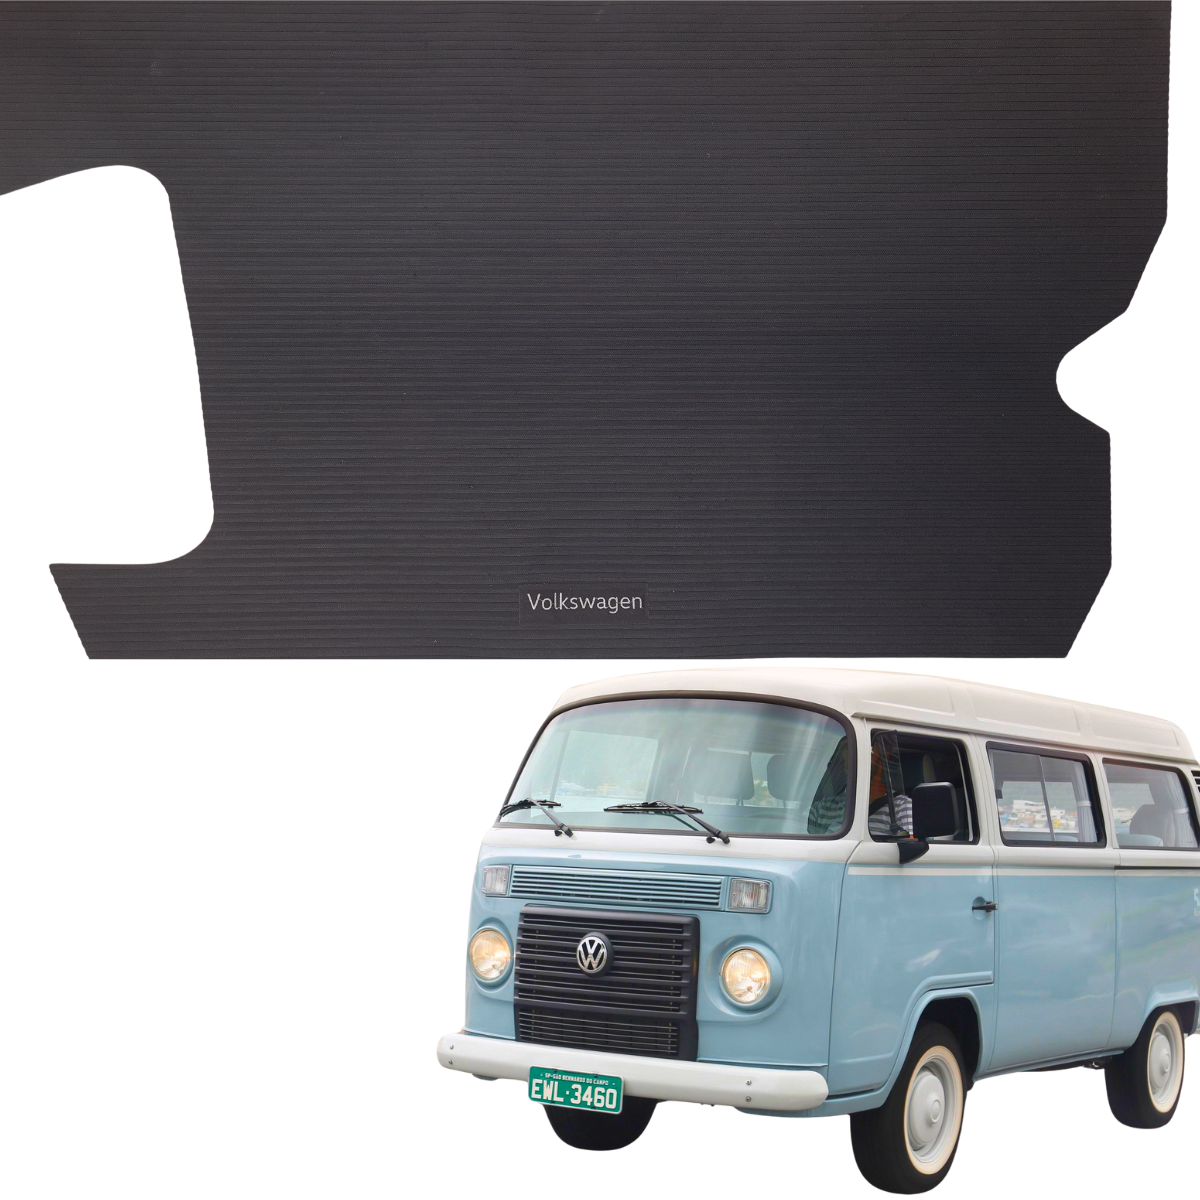
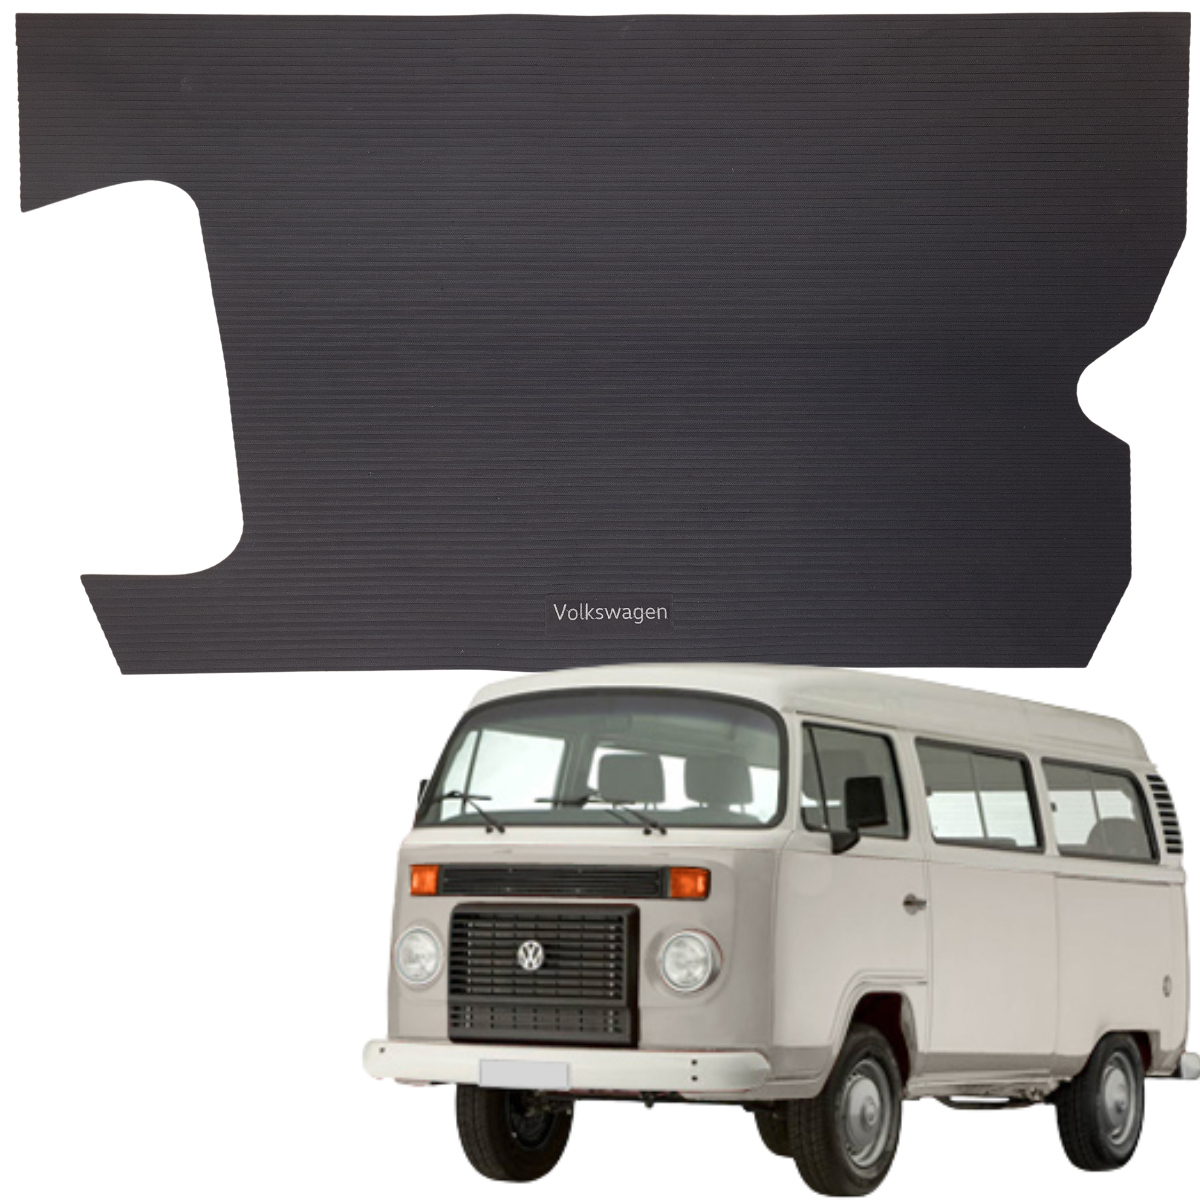
fix: img name

Changed region(s): [[0.0308, 0.1542, 1.0, 1.0], [0.0, 0.0, 1.0, 0.3392]]

diff --git a/src/app/page.tsx b/src/app/page.tsx
@@ -1,7 +1,7 @@
 import Image from "next/image";
 import logo from "../../public/logo.png";
 import product1 from "../../public/opala.png";
-import product2 from "../../public/KombiMala2.png";
+import product2 from "../../public/KombiMala.png";
 import product3 from "../../public/UnoStreet.png";
 
 export default function Home() {
